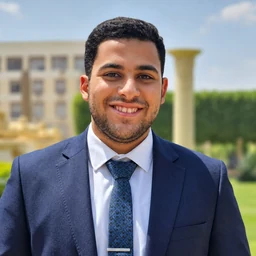
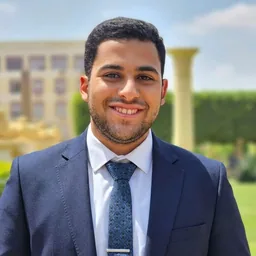
Revert "Sharpen and center profile photo (#6)" (#7)
This reverts commit 1e87f110861add393300f276ff805901844012ae.

diff --git a/src/App.jsx b/src/App.jsx
@@ -321,7 +321,7 @@ function Hero() {
             <div className="profile-frame relative mx-auto w-56 h-56 sm:w-64 sm:h-64 rounded-2xl p-[3px] bg-gradient-to-br from-cyan-glow via-emerald-signal to-violet-glow glow-cyan">
               <img
                 src="/profile-512.webp"
-                srcSet="/profile-256.webp 256w, /profile-512.webp 512w, /profile-1024.webp 1024w"
+                srcSet="/profile-256.webp 256w, /profile-512.webp 512w"
                 sizes="(min-width: 640px) 256px, 224px"
                 width="512"
                 height="512"